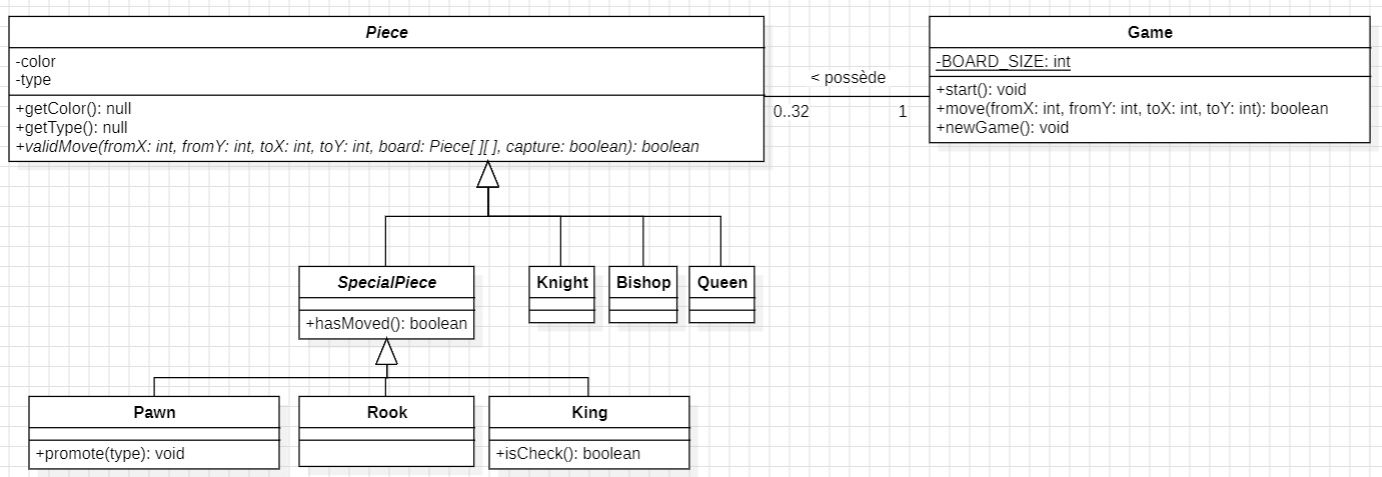
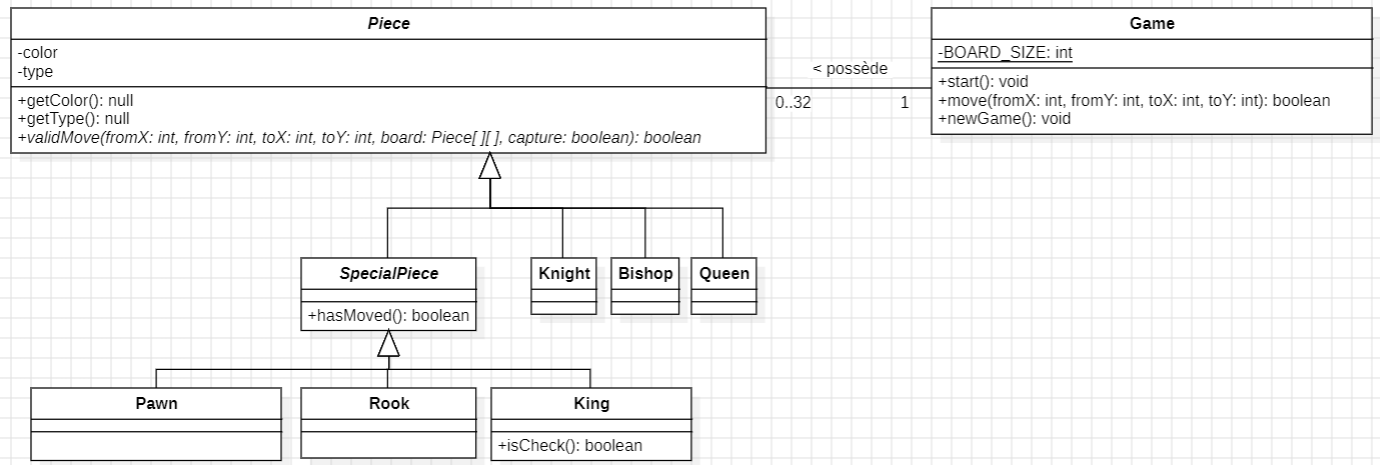
Implement pawn promotion

Changed region(s): [[0.0, 0.0, 1.0, 0.9935]]

diff --git a/engine/piece/Pawn.java b/engine/piece/Pawn.java
@@ -8,12 +8,10 @@ public class Pawn extends SpecialPiece {
         super(color, PieceType.PAWN, board);
     }
 
-    public void promote(PieceType type) {
-        this.type = type;
-    }
-
     @Override
     public boolean validMove(int fromX, int fromY, int toX, int toY, Piece[][] board, boolean capture) {
+
+        boolean valid = false;
 
         // Factorisation between white and black pawns
         int whiteBlack = 1;
@@ -25,24 +23,39 @@ public class Pawn extends SpecialPiece {
         if (!capture && fromX == toX) {
             // 1 square
             if (fromY == toY - whiteBlack) {
-                return true;
+//                return true;
+                valid = true;
             }
             // 2 square, check that the pawn is on the correct row and no piece in front
-            else return fromY == toY - 2*whiteBlack && board[fromX][toY - whiteBlack] == null && (whiteBlack == 1 && toY == 3 || whiteBlack == - 1 && toY == 4);
+            else {
+                valid = fromY == toY - 2*whiteBlack && board[fromX][toY - whiteBlack] == null && (whiteBlack == 1 && toY == 3 || whiteBlack == - 1 && toY == 4);
+            }
         }
         // Capture
         else if (capture && Math.abs(fromX - toX) == 1 && fromY == toY - whiteBlack) {
-            return true;
+            valid = true;
         }
         // En passant
         else {
             // Check correct move format
-            if (!(Math.abs(toX - fromX) == 1 && fromY == toY - whiteBlack)) {
+            if (Math.abs(toX - fromX) == 1 && fromY == toY - whiteBlack) {
                 Piece otherPawn = board[toX][fromY];
                 // Check if nothing on destination square and neighboring piece is a pawn
-                return !capture && otherPawn instanceof Pawn && ((Pawn) otherPawn).hasMoved();
+
+                // IL FAUT CONTROLER QUE L'AUTRE PION A BOUGÉ LE COUP *PRÉCÉDENT*
+
+                if (!capture && otherPawn instanceof Pawn && ((Pawn) otherPawn).hasMoved()) {
+                    valid = true;
+                    board[toX][fromY] = null;
+                }
             }
-            return false;
         }
+        if (valid) {
+            super.moved = true;
+        }
+        return valid;
+    }
+    public String textValue() {
+        return "Pawn";
     }
 }

diff --git a/engine/Game.java b/engine/Game.java
@@ -52,6 +52,25 @@ public class Game implements ChessController {
             board[fromX][fromY] = null;
             view.removePiece(fromX,fromY);
 
+           // Check for pawn promotion
+           if (piece instanceof Pawn && toY == 7 || toY == 0) {
+
+               PlayerColor color = piece.getColor();
+               Piece[] choices = {
+                       new Queen(color,board),
+                       new Knight(color,board),
+                       new Rook(color,board),
+                       new Bishop(color,board)
+               };
+
+               Piece userChoice;
+               while ((userChoice = view.askUser("Promotion", "Choisir une pièce pour la promotion", choices)) == null) {
+               }
+
+               board[toX][toY] = userChoice;
+               view.putPiece(userChoice.getType(),color,toX,toY);
+           }
+
             return true;
         }
         return false;

diff --git a/engine/piece/King.java b/engine/piece/King.java
@@ -20,11 +20,20 @@ public class King extends SpecialPiece {
         int xCorner = fromX - toX < 0 ? 7 : 0 ;
         // 1 square
         if (xDiff == 1 && yDiff == 0 || xDiff == 0 && yDiff == 1 || xDiff == 1 && yDiff == 1) {
+            super.moved = true;
             return true;
         }
 
         // Castle
         Piece rook = board[xCorner][color == PlayerColor.WHITE ? 0 : 7];
-        return !this.hasMoved() && xDiff == 2 && rook instanceof Rook && !((Rook) rook).hasMoved();
+        if (!this.hasMoved() && xDiff == 2 && rook instanceof Rook && !((Rook) rook).hasMoved()) {
+            super.moved = true;
+            return true;
+        }
+        return false;
+    }
+
+    public String textValue() {
+        return "King";
     }
 }

diff --git a/engine/piece/SpecialPiece.java b/engine/piece/SpecialPiece.java
@@ -4,11 +4,15 @@ import chess.PieceType;
 import chess.PlayerColor;
 
 public abstract class SpecialPiece extends Piece{
+
+    protected boolean moved;
+
     public SpecialPiece(PlayerColor color, PieceType type, Piece[][] board) {
         super(color, type, board);
+        moved = false;
     }
 
     public boolean hasMoved() {
-        return false;
+        return moved;
     }
 }

diff --git a/engine/piece/Knight.java b/engine/piece/Knight.java
@@ -12,4 +12,8 @@ public class Knight extends Piece {
     public boolean validMove(int fromX, int fromY, int toX, int toY, Piece[][] board, boolean capture) {
         return Math.abs(fromX - toX) == 1 && Math.abs(fromY - toY) == 2 || Math.abs(fromX - toX) == 2 && Math.abs(fromY - toY) == 1;
     }
+
+    public String textValue() {
+        return "Knight";
+    }
 }

diff --git a/engine/piece/Queen.java b/engine/piece/Queen.java
@@ -16,4 +16,8 @@ public class Queen extends Piece {
         Rook rook = new Rook(color,board);
         return bishop.validMove(fromX,fromY,toX,toY,board,capture) || rook.validMove(fromX,fromY,toX,toY,board,capture);
     }
+
+    public String textValue() {
+        return "Queen";
+    }
 }

diff --git a/engine/piece/Piece.java b/engine/piece/Piece.java
@@ -1,9 +1,10 @@
 package engine.piece;
 
+import chess.ChessView;
 import chess.PieceType;
 import chess.PlayerColor;
 
-public abstract class Piece {
+public abstract class Piece implements ChessView.UserChoice {
     protected PlayerColor color;
 
     protected PieceType type;

diff --git a/engine/piece/Bishop.java b/engine/piece/Bishop.java
@@ -24,4 +24,9 @@ public class Bishop extends Piece {
         }
         return false;
     }
+
+    @Override
+    public String textValue() {
+        return "Bishop";
+    }
 }

diff --git a/engine/piece/Rook.java b/engine/piece/Rook.java
@@ -35,4 +35,7 @@ public class Rook extends SpecialPiece {
         }
         return false;
     }
+    public String textValue() {
+        return "Rook";
+    }
 }
